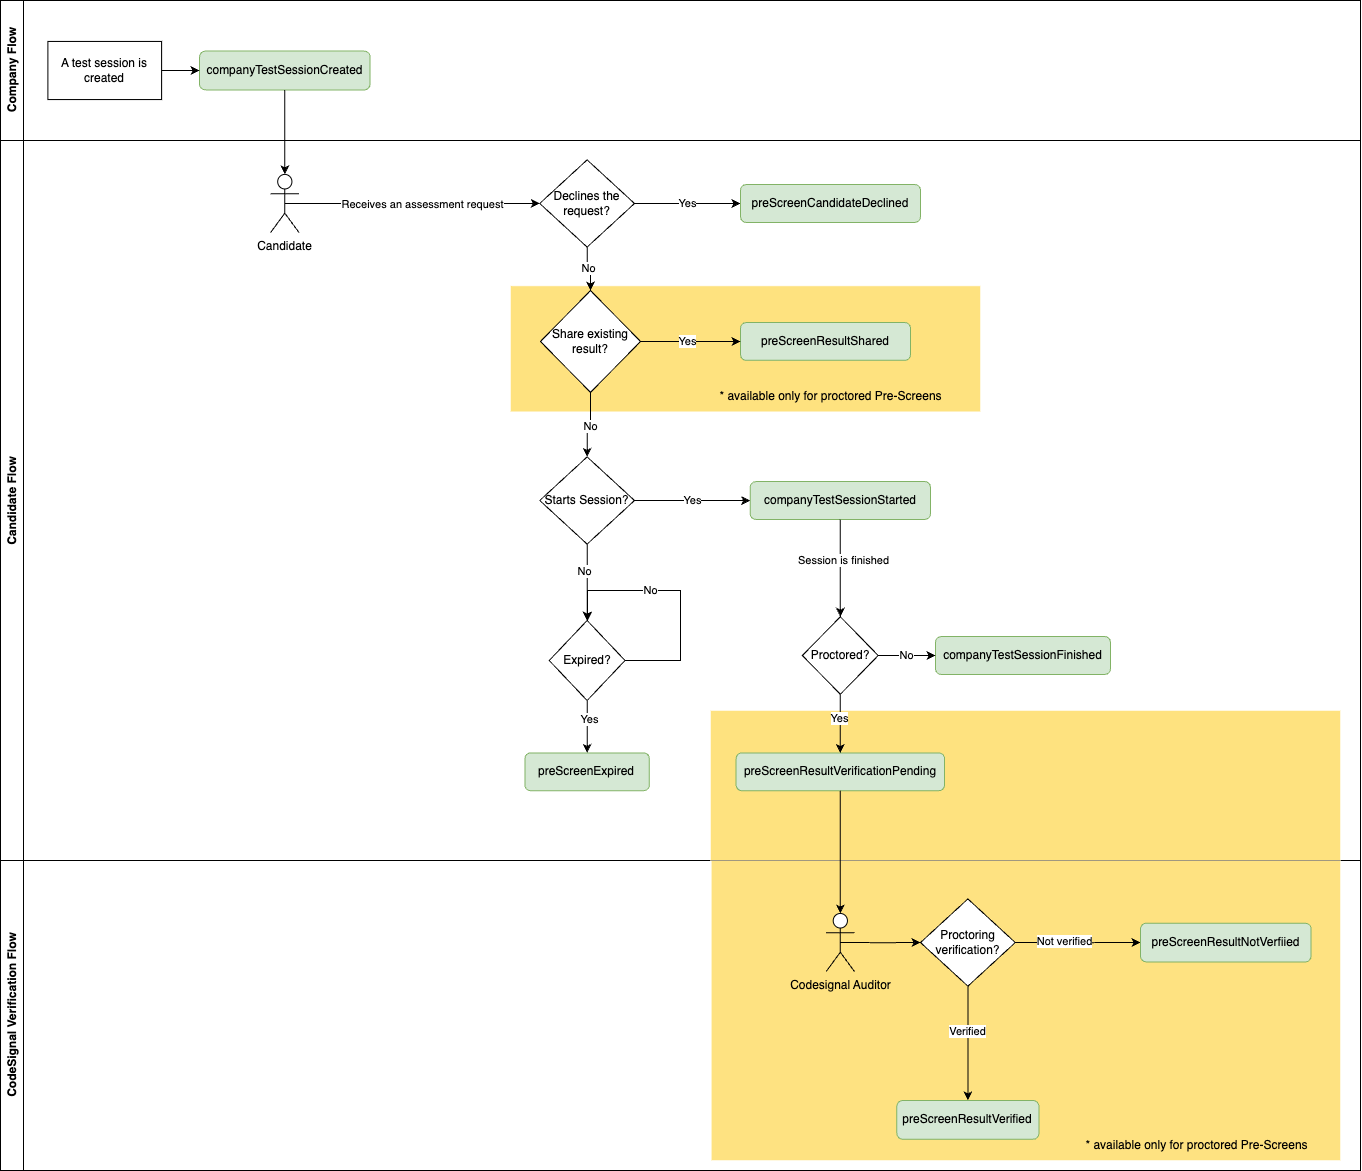
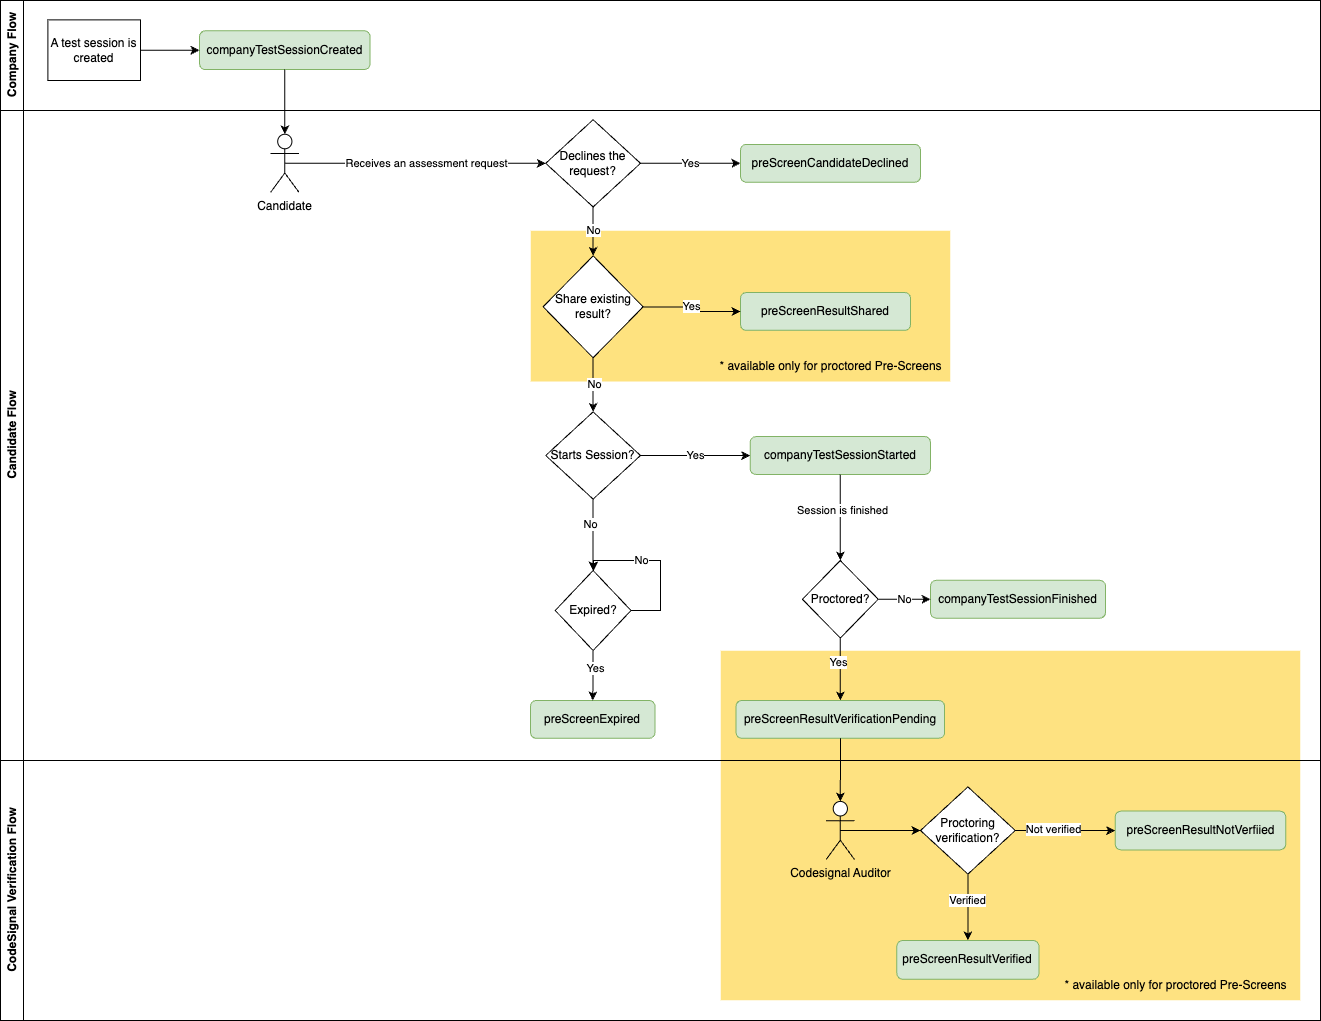
updated images to svg and reduced whitespace

diff --git a/docs/webhooks/index.html b/docs/webhooks/index.html
@@ -331,7 +331,7 @@
               <img
                 alt="Diagram of webhooks end to end flow"
                 width="100%"
-                src="../images/full-e2e-prescreen-flow.png"
+                src="../images/full-e2e-prescreen-flow.svg"
               />
             </div>
             <div class="subsection">
@@ -339,8 +339,8 @@
               <br />
               <img
                 alt="Diagram of webhooks triggered on client flow"
-                width="100%"
-                src="../images/client-events.png"
+                width="80%"
+                src="../images/client-events.svg"
               />
             </div>
             <div class="subsection">
@@ -377,7 +377,7 @@
               <img
                 alt="Diagram of webhooks triggered by the CodeSignal Pre-Screen product"
                 width="100%"
-                src="../images/candidate-events.png"
+                src="../images/candidate-events.svg"
               />
             </div>
             <div class="subsection">
@@ -616,8 +616,8 @@
               <br />
               <img
                 alt="Diagram of webhooks triggered on CodeSignal auditor flow"
-                width="100%"
-                src="../images/auditor-events.png"
+                width="80%"
+                src="../images/auditor-events.svg"
               />
             </div>
 
